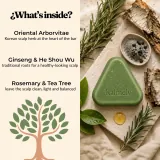
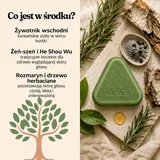
Las 4 imágenes del carrusel, ya en polaco
Traducidas por Julio con el prompt. Instaladas a 1080x1080 (el tamaño de las que
sustituyen) con sus miniaturas de 160x160 regeneradas desde la grande, no reescaladas
desde la thumb vieja.

Las tres sustituciones del prompt llegaron bien:
  hero-04  "DERMATOLOGIST APPROVED" → "BEZ SIARCZANÓW / formuła wegańska"
  hero-05  "14,000+ women" → "1847 osób zrobiło pierwszy krok", PRZED / PO
  hero-06  92/88/90% en polaco con su nota de la encuesta
  hero-07  "Co jest w środku?" + los tres ingredientes

Diacríticos revisados uno a uno en las cuatro: Gęściej, WARSTWĘ ŁOJU, Żywotnik,
Żeń-szeń, zrównoważoną. Ninguno recortado.

?v=pl1 EN LAS 8 URLS (4 grandes + 4 miniaturas). Sin subir el parámetro, quien ya
tenga cacheada la versión inglesa la sigue viendo aunque el fichero haya cambiado —
es el caso real que ya pasó con hero-02.

Verificado en móvil recorriendo el carrusel entero: las 7 grandes y las 7 miniaturas
cargan, ninguna respuesta 4xx.

Claude-Session: https://claude.ai/code/session_01LBDa6tV2Sdg8w4REKzL5oK

diff --git a/scalp/index.html b/scalp/index.html
@@ -1182,10 +1182,10 @@ body:has(.sticky-cta.show) .chat-nudge{bottom:114px}
             <!-- 6 imágenes. hero-08 (mujer canosa) y hero-03 (antes/después rubia) retiradas; hero-02 al final. -->
             <div class="hero-slide"><img src="assets/scalp-hero.webp" alt="Kalmely Korean Scalp Revival Bar — kostka i opakowanie" width="1024" height="1024" fetchpriority="high"></div>
             <div class="hero-slide"><img src="assets/hero-01.webp" alt="Kalmely Korean Scalp Revival Bar wraz z pudełkiem prezentowym" width="1080" height="1080" loading="lazy"></div>
-            <div class="hero-slide"><img src="assets/hero-04.webp" alt="W czym ma pomagać kostka Kalmely" width="1080" height="1080" loading="lazy"></div>
-            <div class="hero-slide"><img src="assets/hero-05.webp" alt="Prawdziwi klienci używający kostki Kalmely" width="1080" height="1080" loading="lazy"></div>
-            <div class="hero-slide"><img src="assets/hero-06.webp" alt="Co mówią klienci po stosowaniu kostki Kalmely" width="1080" height="1080" loading="lazy"></div>
-            <div class="hero-slide"><img src="assets/hero-07.webp" alt="Składniki roślinne w kostce Kalmely" width="1080" height="1080" loading="lazy"></div>
+            <div class="hero-slide"><img src="assets/hero-04.webp?v=pl1" alt="W czym ma pomagać kostka Kalmely" width="1080" height="1080" loading="lazy"></div>
+            <div class="hero-slide"><img src="assets/hero-05.webp?v=pl1" alt="Prawdziwi klienci używający kostki Kalmely" width="1080" height="1080" loading="lazy"></div>
+            <div class="hero-slide"><img src="assets/hero-06.webp?v=pl1" alt="Co mówią klienci po stosowaniu kostki Kalmely" width="1080" height="1080" loading="lazy"></div>
+            <div class="hero-slide"><img src="assets/hero-07.webp?v=pl1" alt="Składniki roślinne w kostce Kalmely" width="1080" height="1080" loading="lazy"></div>
             <div class="hero-slide"><img src="assets/hero-02.webp" alt="Osoba trzymająca kostkę Kalmely" width="1080" height="1080" loading="lazy"></div>
           </div>
           <button type="button" class="hero-arrow hero-prev" aria-label="Poprzednie zdjęcie">&lsaquo;</button>
@@ -1194,10 +1194,10 @@ body:has(.sticky-cta.show) .chat-nudge{bottom:114px}
         <div class="hero-thumbs">
           <button type="button" class="hero-thumb is-active" aria-label="Produkt"><img src="assets/scalp-hero-thumb.webp" alt="" loading="lazy"></button>
           <button type="button" class="hero-thumb" aria-label="Kostka z pudełkiem"><img src="assets/hero-01-thumb.webp" alt="" loading="lazy"></button>
-          <button type="button" class="hero-thumb" aria-label="Korzyści"><img src="assets/hero-04-thumb.webp" alt="" loading="lazy"></button>
-          <button type="button" class="hero-thumb" aria-label="Klienci"><img src="assets/hero-05-thumb.webp" alt="" loading="lazy"></button>
-          <button type="button" class="hero-thumb" aria-label="Wyniki"><img src="assets/hero-06-thumb.webp" alt="" loading="lazy"></button>
-          <button type="button" class="hero-thumb" aria-label="Składniki"><img src="assets/hero-07-thumb.webp" alt="" loading="lazy"></button>
+          <button type="button" class="hero-thumb" aria-label="Korzyści"><img src="assets/hero-04-thumb.webp?v=pl1" alt="" loading="lazy"></button>
+          <button type="button" class="hero-thumb" aria-label="Klienci"><img src="assets/hero-05-thumb.webp?v=pl1" alt="" loading="lazy"></button>
+          <button type="button" class="hero-thumb" aria-label="Wyniki"><img src="assets/hero-06-thumb.webp?v=pl1" alt="" loading="lazy"></button>
+          <button type="button" class="hero-thumb" aria-label="Składniki"><img src="assets/hero-07-thumb.webp?v=pl1" alt="" loading="lazy"></button>
           <button type="button" class="hero-thumb" aria-label="Kostka w dłoni"><img src="assets/hero-02-thumb.webp" alt="" loading="lazy"></button>
         </div>
       </div>
